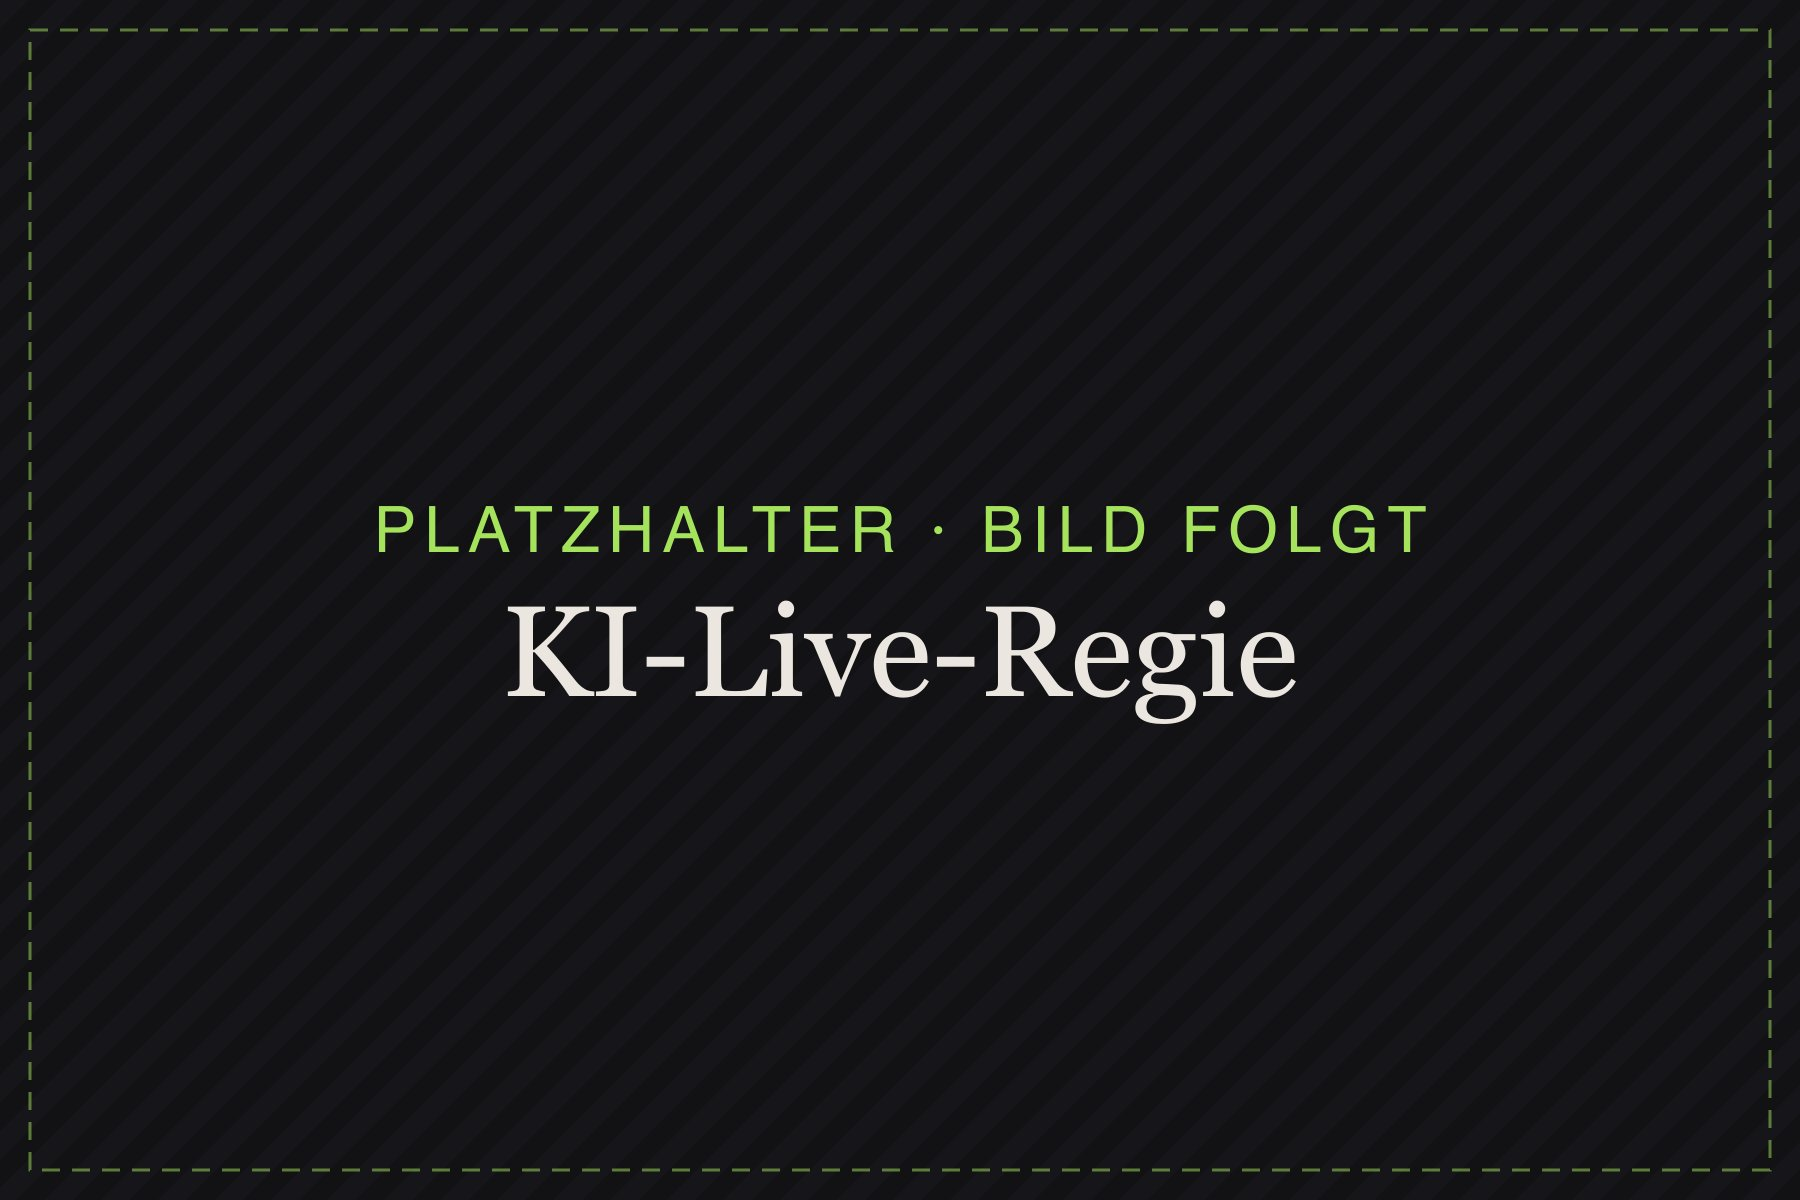
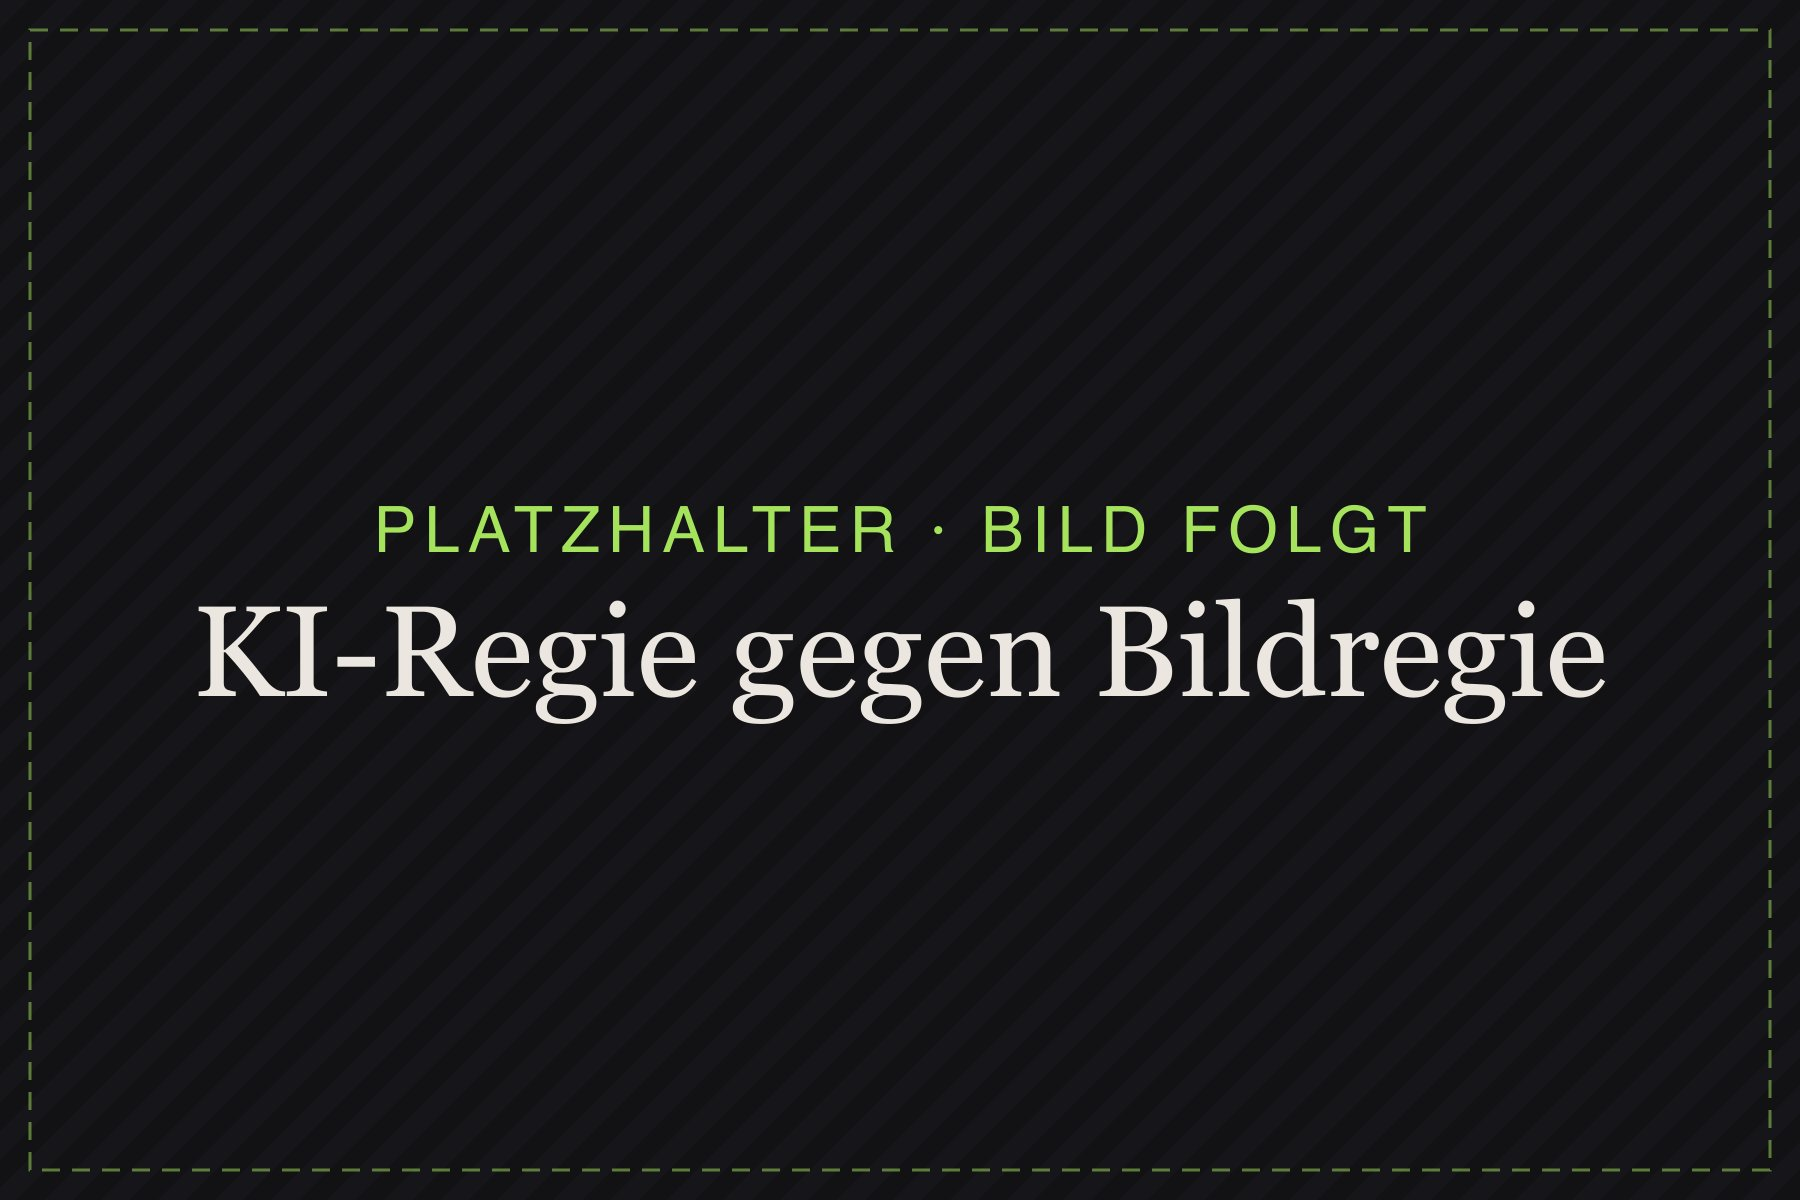
Projektseite Bachelorarbeit, Kennzahlen, Impressum-Adresse, aktuelle Deploy-Actions

Changed region(s): [[0.0933, 0.4933, 0.9022, 0.6167]]

diff --git a/src/content.config.ts b/src/content.config.ts
@@ -27,6 +27,8 @@ const projects = defineCollection({
       cover: image(),
       gallery: z.array(image()).default([]),
       credits: z.string().optional(),
+      // Kennzahlen, die groß über dem Text erscheinen (optional)
+      stats: z.array(z.object({ value: z.string(), label: z.string() })).default([]),
       links: z.array(z.object({ label: z.string(), url: z.string().url() })).default([]),
     }),
 });

diff --git a/src/content/projects/bachelorprojekt-ki-regie.md b/src/content/projects/bachelorprojekt-ki-regie.md
@@ -1,9 +1,9 @@
 ---
-title: KI-Live-Regie mit MiruSuite
-role: Praxisprojekt & Bachelorarbeit
+title: KI-Regie gegen Bildregie
+role: Bachelorarbeit & Aufnahmeleitung
 category: produktion
 year: 2026
-location: HTWK Leipzig
+location: Fernsehstudio der HTWK Leipzig
 order: 3
 draft: true
 cover: ../../assets/projects/bachelorprojekt-ki-regie/01.jpg
@@ -11,10 +11,50 @@ gallery:
   - ../../assets/projects/bachelorprojekt-ki-regie/01.jpg
   - ../../assets/projects/bachelorprojekt-ki-regie/02.jpg
   - ../../assets/projects/bachelorprojekt-ki-regie/03.jpg
+stats:
+  - value: "1,0"
+    label: Note der Bachelorarbeit
+  - value: "95 %"
+    label: Sprecher im Bild bei der KI – Mensch 88 %
+  - value: "+3,0 s"
+    label: Reaktion der KI auf Sprecherwechsel – Mensch −0,8 s
+  - value: "11 / 11"
+    label: Befragte bewerten im Blindtest die menschliche Regie höher
 ---
 
-Im Rahmen meines Praxisprojekts habe ich eine Talkshow-Produktion umgesetzt, bei der die Live-Regie automatisiert mit MiruSuite lief.
+## Die Frage
 
-In meiner Bachelorarbeit „Leistungsanalyse KI-basierter Regiesysteme im Vergleich zu menschlichen Schnittentscheidungen in standardisierten Live-Formaten“ habe ich anschließend untersucht, wie gut solche Systeme im Vergleich zu menschlicher Regie abschneiden.
+Kann ein KI-basiertes Regiesystem die Maßstäbe professioneller Bildregie in einem standardisierten Live-Talk erfüllen? Für meine Bachelorarbeit „Leistungsanalyse KI-basierter Regiesysteme im Vergleich zu menschlichen Schnittentscheidungen in standardisierten Live-Formaten“ habe ich das im direkten Vergleich getestet.
 
-*✎ Platzhalter: Wie war das Setup aufgebaut (Kameras, Mikrofone, Software)? Was genau war deine Rolle? Was kam heraus – wo ist die KI stark, wo braucht es weiterhin den Menschen?*
+## Der Versuch
+
+Im Juli 2026 lief im Fernsehstudio der HTWK ein Live-Talk mit Moderator und zwei Gästen. Zwei Regien schnitten denselben Take parallel – sechs Kameras an drei Positionen, paarweise höchstens 30 cm auseinander, sodass beide Seiten nahezu dieselben Bilder zur Verfügung hatten.
+
+- **Automatisiert:** MiruSuite 1.2.8 mit drei PTZ-Kameras BirdDog P200 über NDI, ATEM Mini Pro ISO und drei getrennten Mikrofonkanälen. Cut-Style „Balanced“, 3 s Mindestzeit zwischen zwei Schnitten, 200 ms Preset-Verzögerung, Presets an die Mikrofonkanäle gekoppelt, Personen-Tracking abgeschaltet.
+- **Menschlich:** Studioregie mit getrennter Bildmischung und drei bemannten Kameras.
+
+## Methode
+
+- Kriterienkatalog mit fünf Kriterien aus einem Experteninterview mit einer Bildregisseurin und aus der Fachliteratur
+- Interview mit dem Entwickler zur Systemlogik
+- Sekundengenaue Schnitt- und Sprecherprotokolle über 519 Sekunden
+- Blindtest mit elf Personen und drei Ausschnitten, ohne dass die Zuordnung der Fassungen bekannt war
+
+## Ergebnisse
+
+Kein Kriterium wurde vollständig erfüllt, zwei eingeschränkt, drei nicht. Die KI hatte den aktiven Sprecher zwar häufiger im Bild (95 % gegenüber 88 %), reagierte aber im Median erst 3,0 s nach einem Sprecherwechsel – die menschliche Regie schnitt schon 0,8 s vorher. 24 % der automatischen Schnitte brachten keine neue Bildinformation, beim Menschen keiner. Im Blindtest bewerteten alle elf Befragten die menschliche Fassung höher, im Mittel um 1,43 Punkte.
+
+Der Kern: Die KI steckt nur in der Wahrnehmung, der Schnitt selbst folgt einem reaktiven Regelwerk. Meine Empfehlung ist deshalb ein teilautomatischer Betrieb.
+
+## Meine Rolle
+
+- Konzeption, Planung und Aufnahmeleitung des Versuchs
+- Technischer Aufbau, Einrichtung der MiruSuite und Preset-Belegung
+- Beide Interviews, Protokollierung, Auswertung und Blindtest
+
+## Was ich mitnehme
+
+- Was ein System leisten kann, hängt davon ab, wo die KI darin sitzt.
+- Die Einrichtung prägt die Ergebnisse stark – eine einzelne Preset-Entscheidung ist direkt in den Daten sichtbar.
+- Studiozeit früh sichern und nach jedem Neustart alle Aufnahmeparameter prüfen.
+- Objektive Metrik und Befragung müssen dasselbe messen.
